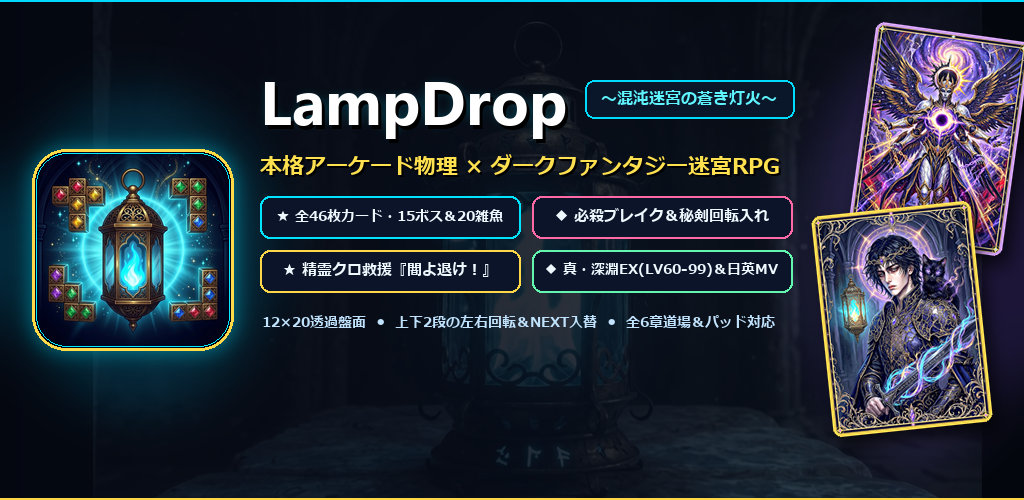
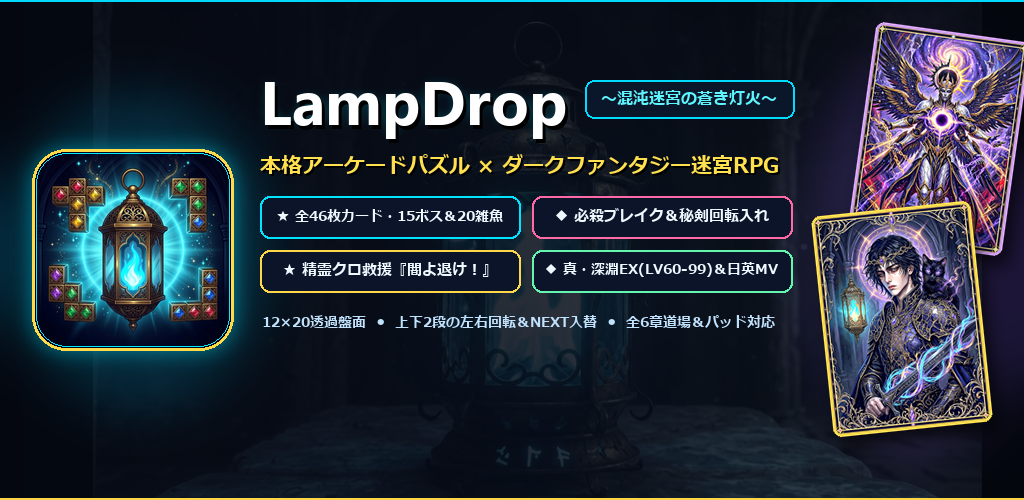
fix(lampdrop): replace unclear 'アーケード物理' wording with 'アーケードパズル' across portal, LampDrop page and promo graphics

Changed region(s): [[0.25, 0.3, 0.7812, 0.36]]

diff --git a/lampdrop/index.html b/lampdrop/index.html
@@ -4,7 +4,7 @@
     <meta charset="UTF-8">
     <meta name="viewport" content="width=device-width, initial-scale=1.0">
     <title>LampDrop (ランプドロップ) - 混沌迷宮の蒼き灯火 | Studio LampKeep 公式サイト</title>
-    <meta name="description" content="Studio LampKeepが贈る、本格アーケード物理×ダークファンタジー迷宮RPG『LampDrop（ランプドロップ）』公式サイト。全46枚フルアートカード（15大ボス＋20種迷宮モブ波状戦）、15種固有ボス登場演出、ボス必殺テレグラフ破り、EX深淵領域（LV60–99）、日英6本MV収録（最新v1.0.72）。">
+    <meta name="description" content="Studio LampKeepが贈る、本格アーケードパズル×ダークファンタジー迷宮RPG『LampDrop（ランプドロップ）』公式サイト。全46枚フルアートカード（15大ボス＋20種迷宮モブ波状戦）、15種固有ボス登場演出、ボス必殺テレグラフ破り、EX深淵領域（LV60–99）、日英6本MV収録（最新v1.0.72）。">
     <meta name="keywords" content="LampDrop, ランプドロップ, Studio LampKeep, ブロックパズル, ダークファンタジー, RPGカードバトル, Android, Prince of Chaos, EX深淵">
 
     <!-- Open Graph / Meta -->
@@ -16,7 +16,7 @@
     <meta property="og:site_name" content="Studio LampKeep (蒼灯機関)">
     <meta property="og:url" content="https://studiolampkeep.github.io/LampKeeper2026.github.io/lampdrop/">
     <meta property="og:title" content="LampDrop - 混沌迷宮の蒼き灯火 | Studio LampKeep 公式サイト (v1.0.72)">
-    <meta property="og:description" content="魔導ランプを繋ぎ、深淵の怪異を斬り伏せろ！本格アーケード物理×全46枚フルアートRPGカード対峙×20種モブ波状戦＆15大ボス固有演出×必殺テレグラフ破り×EX深淵LV60–99×日英6本MV（最新v1.0.72）。">
+    <meta property="og:description" content="魔導ランプを繋ぎ、深淵の怪異を斬り伏せろ！本格アーケードパズル×全46枚フルアートRPGカード対峙×20種モブ波状戦＆15大ボス固有演出×必殺テレグラフ破り×EX深淵LV60–99×日英6本MV（最新v1.0.72）。">
     <meta property="og:image" content="https://studiolampkeep.github.io/LampKeeper2026.github.io/lampdrop/store_promo/ja/feature_graphic.png">
     <meta property="og:locale" content="ja_JP">
     <meta property="og:locale:alternate" content="en_US">
@@ -2285,8 +2285,8 @@
                 暗闇を切り裂く、蒼き刃と魔導ランタンの共鳴――
             </div>
 
-            <p class="hero-desc" data-ja="アーケード黄金期の鋭い落下ブロック物理と、ダークファンタジー迷宮RPGカードバトルが完全融合！<br><strong>90%透過ガラスの12×20戦場</strong>で同色ランプを繋ぐ<strong>『ランタン共鳴』</strong>、装甲を貫く<strong>『秘剣・回転入れ』</strong>、敵の必殺技を打ち砕く<strong>『テレグラフ破り』</strong>を駆使し、<strong>20種の迷宮モブ波状戦</strong>と<strong>15体の深淵守護者</strong>、さらに極限の<strong>EX深淵領域（LV60–99）</strong>を制覇せよ！" data-en="The razor-sharp feel of retro arcade falling-block physics fuses with a dark-fantasy dungeon RPG card battler!<br>Master <strong>Lantern Resonance</strong> on a <strong>90% transparent 12×20 glass grid</strong>, pierce high armor with <strong>Arcane Twists</strong>, shatter boss Ultimates via <strong>Telegraph Breaks</strong>, and battle through <strong>20 vanguard mob waves</strong>, <strong>15 unique dungeon bosses</strong>, and the <strong>EX Abyss (LV60–99)</strong>!">
-                アーケード黄金期の鋭い落下ブロック物理と、ダークファンタジー迷宮RPGカードバトルが完全融合！<br>
+            <p class="hero-desc" data-ja="アーケード黄金期の鋭い落下パズル操作感と、ダークファンタジー迷宮RPGカードバトルが完全融合！<br><strong>90%透過ガラスの12×20戦場</strong>で同色ランプを繋ぐ<strong>『ランタン共鳴』</strong>、装甲を貫く<strong>『秘剣・回転入れ』</strong>、敵の必殺技を打ち砕く<strong>『テレグラフ破り』</strong>を駆使し、<strong>20種の迷宮モブ波状戦</strong>と<strong>15体の深淵守護者</strong>、さらに極限の<strong>EX深淵領域（LV60–99）</strong>を制覇せよ！" data-en="The razor-sharp feel of retro arcade falling-block puzzles fuses with a dark-fantasy dungeon RPG card battler!<br>Master <strong>Lantern Resonance</strong> on a <strong>90% transparent 12×20 glass grid</strong>, pierce high armor with <strong>Arcane Twists</strong>, shatter boss Ultimates via <strong>Telegraph Breaks</strong>, and battle through <strong>20 vanguard mob waves</strong>, <strong>15 unique dungeon bosses</strong>, and the <strong>EX Abyss (LV60–99)</strong>!">
+                アーケード黄金期の鋭い落下パズル操作感と、ダークファンタジー迷宮RPGカードバトルが完全融合！<br>
                 <strong>90%透過ガラスの12×20戦場</strong>で同色ランプを繋ぐ<strong>『ランタン共鳴』</strong>、装甲を貫く<strong>『秘剣・回転入れ』</strong>、敵の必殺技を打ち砕く<strong>『テレグラフ破り』</strong>を駆使し、<strong>20種の迷宮モブ波状戦</strong>と<strong>15体の深淵守護者</strong>、さらに極限の<strong>EX深淵領域（LV60–99）</strong>を制覇せよ！
             </p>
 
@@ -2903,8 +2903,8 @@
             <div class="mode-card">
                 <div class="mode-badge">⚔ MODE 01 ・ DUNGEON CAMPAIGN</div>
                 <h3 style="font-family: 'Cinzel', 'Noto Sans JP', serif; font-size: 1.42rem; color: #fff; margin-bottom: 10px;" data-ja="迷宮踏破 / LABYRINTH（全6階層＋EX深淵 LV60–99）" data-en="LABYRINTH (6 Floors + EX Abyss LV60–99)">迷宮踏破 / LABYRINTH（全6階層＋EX深淵 LV60–99）</h3>
-                <p style="font-size: 0.91rem; color: var(--text-secondary); margin-bottom: 16px; flex-grow: 1;" data-ja="本格アーケード直系のキレ味鋭い物理と30Fロック猶予を受け継ぐメインモード。無料プレイでB1F〜B3F（LV.0〜30）の第一幕とLV30深淵降下MVまで堪能でき、買い切りプレミアムパスでB4F〜B6F真・混沌神決戦、エンディングMV、そして40層の極限エンドゲーム<strong>『EX深淵領域（LV.60〜99）』</strong>が完全解放！" data-en="Authentic retro arcade physics with crisp lock grace and 5-phase Arcane Crucible pacing. Play B1F–B3F (LV0–30) and the LV30 Midpoint MV free, then unlock B4F–B6F, the True Ending MV, and the 40-stratum <strong>EX Abyss (LV60–99)</strong> with the one-time Premium Pass!">
-                    本格アーケード直系のキレ味鋭い物理と30Fロック猶予を受け継ぐメインモード。無料プレイでB1F〜B3F（LV.0〜30）の第一幕とLV30深淵降下MVまで堪能でき、買い切りプレミアムパスでB4F〜B6F真・混沌神決戦、エンディングMV、そして40層の極限エンドゲーム<strong>『EX深淵領域（LV.60〜99）』</strong>が完全解放！
+                <p style="font-size: 0.91rem; color: var(--text-secondary); margin-bottom: 16px; flex-grow: 1;" data-ja="本格アーケード直系のキレ味鋭い操作感と30Fロック猶予を受け継ぐメインモード。無料プレイでB1F〜B3F（LV.0〜30）の第一幕とLV30深淵降下MVまで堪能でき、買い切りプレミアムパスでB4F〜B6F真・混沌神決戦、エンディングMV、そして40層の極限エンドゲーム<strong>『EX深淵領域（LV.60〜99）』</strong>が完全解放！" data-en="Authentic retro arcade action with crisp lock grace and 5-phase Arcane Crucible pacing. Play B1F–B3F (LV0–30) and the LV30 Midpoint MV free, then unlock B4F–B6F, the True Ending MV, and the 40-stratum <strong>EX Abyss (LV60–99)</strong> with the one-time Premium Pass!">
+                    本格アーケード直系のキレ味鋭い操作感と30Fロック猶予を受け継ぐメインモード。無料プレイでB1F〜B3F（LV.0〜30）の第一幕とLV30深淵降下MVまで堪能でき、買い切りプレミアムパスでB4F〜B6F真・混沌神決戦、エンディングMV、そして40層の極限エンドゲーム<strong>『EX深淵領域（LV.60〜99）』</strong>が完全解放！
                 </p>
                 <div style="font-size: 0.82rem; color: var(--accent-cyan); font-weight: 700;" data-ja="✦ 20種モブ波状戦 ＋ 15大ボス固有登場演出 ＋ 厳格な+1階層進行！" data-en="✦ 20 Mob Waves + 15 Unique Boss Intros + Strict +1 Stratum Progression!">
                     ✦ 20種モブ波状戦 ＋ 15大ボス固有登場演出 ＋ 厳格な+1階層進行！
@@ -3104,8 +3104,8 @@
 
         <div class="gallery-grid">
             <div class="gallery-item" onclick="openPromoSlide(0)">
-                <img id="gallerySlide0" src="store_promo/ja/promo_01_battle.png" alt="Arcade Block Physics × RPG Card Battle" loading="lazy">
-                <div class="gallery-caption" data-ja="01. 本格アーケード物理 × 全46枚RPGフルアートカード対峙" data-en="01. Arcade Block Physics × 46 Full-Art RPG Card Duels">01. 本格アーケード物理 × 全46枚RPGフルアートカード対峙</div>
+                <img id="gallerySlide0" src="store_promo/ja/promo_01_battle.png" alt="Arcade Block Puzzle × RPG Card Battle" loading="lazy">
+                <div class="gallery-caption" data-ja="01. 本格アーケードパズル × 全46枚RPGフルアートカード対峙" data-en="01. Arcade Block Puzzle × 46 Full-Art RPG Card Duels">01. 本格アーケードパズル × 全46枚RPGフルアートカード対峙</div>
             </div>
 
             <div class="gallery-item" onclick="openPromoSlide(1)">
@@ -3380,7 +3380,7 @@
                 </tr>
                 <tr>
                     <th data-ja="ジャンル" data-en="Genre">ジャンル</th>
-                    <td data-ja="本格アーケード物理 × ダークファンタジー迷宮RPGブロックパズル" data-en="Retro Arcade Falling-Block Action Puzzle × Dark Fantasy Card RPG">本格アーケード物理 × ダークファンタジー迷宮RPGブロックパズル</td>
+                    <td data-ja="本格アーケードパズル × ダークファンタジー迷宮RPG" data-en="Retro Arcade Falling-Block Action Puzzle × Dark Fantasy Card RPG">本格アーケードパズル × ダークファンタジー迷宮RPG</td>
                 </tr>
                 <tr>
                     <th data-ja="最新バージョン" data-en="Latest Version">最新バージョン</th>
@@ -3472,8 +3472,8 @@
         {
             ja: 'store_promo/ja/promo_01_battle.png',
             en: 'store_promo/en/promo_01_battle.png',
-            capJa: '01. 本格アーケード物理 × 全46枚フルアートRPGカード対峙',
-            capEn: '01. Arcade Block Physics × 46 Full-Art RPG Card Duels'
+            capJa: '01. 本格アーケードパズル × 全46枚フルアートRPGカード対峙',
+            capEn: '01. Arcade Block Puzzle × 46 Full-Art RPG Card Duels'
         },
         {
             ja: 'store_promo/ja/promo_02_slash.png',

diff --git a/index.html b/index.html
@@ -223,7 +223,7 @@
 
           <div class="work-info">
             <div>
-              <div class="work-category pink">✦ 本格アーケード物理 × ダークファンタジー迷宮RPG</div>
+              <div class="work-category pink">✦ 本格アーケードパズル × ダークファンタジー迷宮RPG</div>
               <div class="work-title-group">
                 <img src="assets/img/blockdrop/icon.png" alt="LampDrop Icon" class="work-app-icon">
                 <h3 class="work-title">LampDrop</h3>
@@ -510,7 +510,7 @@
           <div class="video-showcase-body">
             <span class="video-badge">LAMPDROP · OFFICIAL PV</span>
             <h3>【公式PV】LampDrop：混沌迷宮の蒼き灯火</h3>
-            <p>本格アーケード物理×ダークファンタジー迷宮RPGの実機プレイ・必殺ブレイク・公式ボーカルMVを凝縮した最新トレーラー。</p>
+            <p>本格アーケードパズル×ダークファンタジー迷宮RPGの実機プレイ・必殺ブレイク・公式ボーカルMVを凝縮した最新トレーラー。</p>
           </div>
         </article>
 

diff --git a/js/main.js b/js/main.js
@@ -92,7 +92,7 @@ const APP_DATA = {
   blockdrop: {
     title: 'LampDrop：混沌迷宮の蒼き灯火',
     subtitle: 'LampDrop: Chaos Labyrinth ― 暗闇を切り裂く、蒼き刃と魔導ランタンの共鳴',
-    category: '本格アーケード物理 × ダークファンタジー迷宮RPG',
+    category: '本格アーケードパズル × ダークファンタジー迷宮RPG',
     tag: 'Android 7.0+ / Google Play 公開中',
     platform: 'Android 7.0+ (Google Play 公開中)',
     price: '基本プレイ無料（買い切りプレミアムパス ¥600）',

diff --git a/README.md b/README.md
@@ -11,7 +11,7 @@ Studio LampKeep（蒼灯機関）の公式ポータルサイトです。GitHub P
 ## 🌟 公開中タイトル (Released)
 
 1. **LampDrop：混沌迷宮の蒼き灯火 (LampDrop: Chaos Labyrinth)** — `v1.0.72` (Google Play 公開中)
-   - **ジャンル**: 本格アーケード物理 × ダークファンタジー迷宮RPG (Android)
+   - **ジャンル**: 本格アーケードパズル × ダークファンタジー迷宮RPG (Android)
    - **特徴**: 90%透過12×20盤面、全46枚フルアートカード（15大ボス＋20種モブ波状戦＋味方11）、ボス必殺テレグラフ破り、自動難易度『魔導炉』、EX深淵（LV60–99）、日英6本ボーカルMV、9言語対応。
    - **Google Play**: [https://play.google.com/store/apps/details?id=com.lampkeep.blockdrop1988](https://play.google.com/store/apps/details?id=com.lampkeep.blockdrop1988)
    - **個別特設ページ**: [https://studiolampkeep.github.io/LampKeeper2026.github.io/lampdrop/](https://studiolampkeep.github.io/LampKeeper2026.github.io/lampdrop/)
